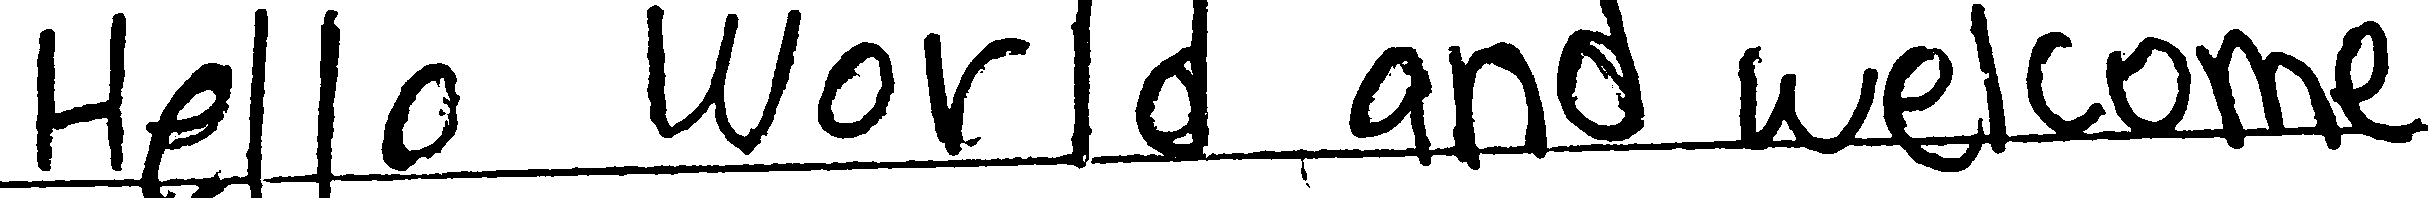
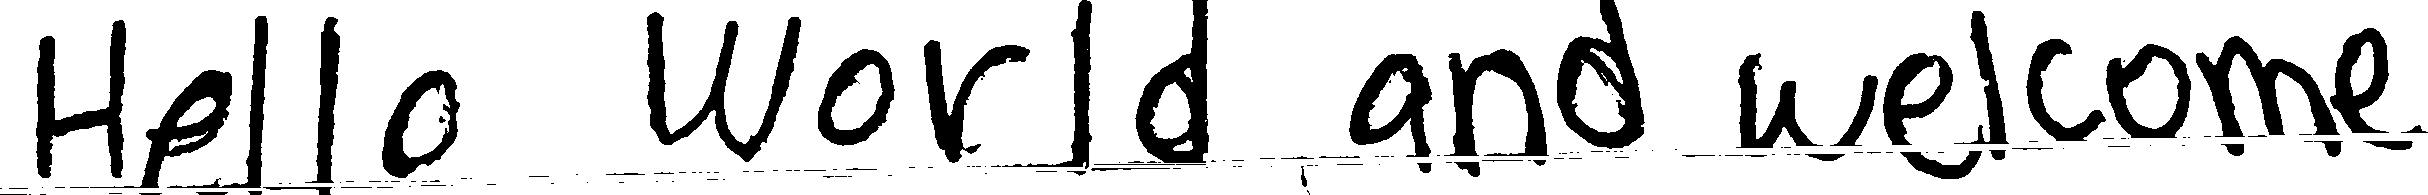
we did it

diff --git a/core.py b/core.py
@@ -13,12 +13,44 @@ def load_model():
     model = VisionEncoderDecoderModel.from_pretrained('microsoft/trocr-base-handwritten')
     return processor, model
 
+# removes the 
+#!charGPT wrote this function
+def preprocess_img(gray):
+    # gray: single-channel grayscale image
+
+    # 1) Inverse binary: text + lines = 255, background = 0
+    _, bin_inv = cv2.threshold(
+        gray, 0, 255, cv2.THRESH_BINARY_INV + cv2.THRESH_OTSU
+    )
+
+    h, w = bin_inv.shape
+    kernel_width = max(40, w // 25) #!
+    kernel = cv2.getStructuringElement(cv2.MORPH_RECT, (kernel_width, 1))
+
+    # 2) Detect horizontal lines
+    horizontal = cv2.morphologyEx(bin_inv, cv2.MORPH_OPEN, kernel)
+
+    # 3) Remove those lines from the *grayscale* image
+    gray_no_lines = gray.copy()
+    mask = (horizontal == 255)   # places where we detected lines
+    gray_no_lines[mask] = 255    # paint them white
+
+    cv2.imwrite("debug_horizontal.png", horizontal)
+    cv2.imwrite("debug_bin_inv.png", bin_inv)
+
+    return gray_no_lines
+
+
+
+# performs line segmentation
 def line_segmentation(image):
     # 1. convert image to grayscale
     if len(image.shape) == 3:
         grayed_img = cv2.cvtColor(image, cv2.COLOR_BGR2GRAY)
     else:
         grayed_img = image  # already grayscale
+
+    grayed_img = preprocess_img(grayed_img) #! remove lines
 
     # 2. binarize it
     ret, bin_img = cv2.threshold(grayed_img, 0, 255, cv2.THRESH_BINARY + cv2.THRESH_OTSU)
@@ -50,20 +82,20 @@ def line_segmentation(image):
     # 4. segment the image
     line_img = []
     h, w = bin_img.shape
-    pad = 10 #? padding
+    pad = 17 #? padding
     for (ystart, yend) in lines:
         y0 = max(ystart - pad, 0)
         y1 = min(yend + pad, ink_pixel_counts.shape[0])
-        line_img.append(bin_img[y0:y1, 0:w])
+        line_img.append(bin_img[y0:y1, 0:w]) #! we use the original grayscale img
 
     #####? test code for writing each line into an img
-    # for i, line_img in enumerate(line_img):
-    #     cv2.imwrite(f"line_{i}.png", line_img)
+    for i, crop in enumerate(line_img):
+        cv2.imwrite(f"line_{i}.png", crop)
 
     return line_img # returns bgr array of line images
 
-#? change image path later on
-# loads in the image path, processor, and model; outputs text
+
+# loads in the image, processor, and model; outputs text
 def image_to_text(image, processor, model):
     pixel_values = processor(images=image, return_tensors="pt").pixel_values
 
